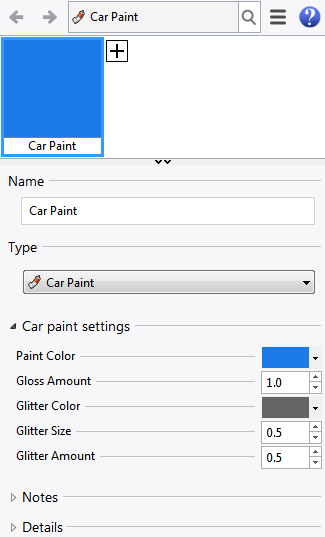
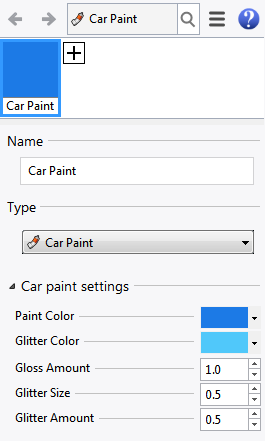
Added more automatic UI examples.

Changed region(s): [[0.0302, 0.4422, 0.9962, 1.0], [0.0, 0.0, 1.0, 0.4127], [0.7547, 0.619, 0.9962, 1.0]]

diff --git a/_guide_topics/cpp/rdk-render-content.md b/_guide_topics/cpp/rdk-render-content.md
@@ -128,7 +128,7 @@ protected:
 	virtual ON_wString TypeDescription(void) const override { return L"Demo car paint material"; }
 };
 ```
-Then override the `Bitflags()` method and switch on the fields option. This tells the RDK that the material uses fields and allows a lot of automation to take place by default. At the same time we remove the _Texture Summary_ option which would cause our UI to display a panel containing a texture list. Since this material has no child textures, this would not be useful here.
+Then override the `BitFlags()` method and switch on the fields option. This tells the RDK that the material uses fields and allows a lot of automation to take place by default. At the same time we remove the _Texture Summary_ option which would cause our UI to display a panel containing a texture list. Since this material has no child textures, this would not be useful here.
 ```cpp
 class CCarPaintMaterial : public CRhRdkMaterial
 {
@@ -138,8 +138,11 @@ class CCarPaintMaterial : public CRhRdkMaterial
 
 unsigned int CCarPaintMaterial::BitFlags(void) const
 {
-	// Add the fields option to the default options and remove the Texture Summary.
-	return (__super::BitFlags() & ~bfTextureSummary) | bfFields;
+	auto flags = __super::BitFlags(); // Get the default flags.
+ 	flags &= ~bfTextureSummary;       // Remove the Texture Summary option.
+	flags |=  bfFields;               // Add the fields option.
+
+	return flags;
 }
 ```
 Recall that `CRhRdkMaterial` is derived from `CRhRdkContent`. This base class contains a field collection which is accessible by calling the `Fields()` method to obtain a reference to the `CRhRdkContentFields` object containing the fields. Each field is implemented by `CRhRdkContentField` and they must be defined and initialized. They are best defined as members of the class and initialized in the constructor. Let's add the constructor and field members for the paint properties:
@@ -148,7 +151,6 @@ class CCarPaintMaterial : public CRhRdkMaterial
 {
 public:
 	CCarPaintMaterial();
-
 	...
 
 private:
@@ -169,17 +171,23 @@ CCarPaintMaterial::CCarPaintMaterial()
 	m_GlitterSize  (*this, L"glitter-size",   L"Glitter Size",   L"Glitter Size"),
 	m_GlitterAmount(*this, L"glitter-amount", L"Glitter Amount", L"Glitter Amount")
 {
-	m_PaintColor = CRhRdkColor(28, 122, 230);
-	m_GlossAmount  = 1.0;
+	m_PaintColor   = CRhRdkColor(28, 122, 230);
 	m_GlitterColor = CRhRdkColor(80, 200, 250);
-	m_GlitterSize  = 0.5;
+
+	m_GlossAmount = 1.0;
+	m_GlossAmount.SetLimits(0.0, 1.0);
+
+	m_GlitterSize = 0.5;
+	m_GlitterSize.SetLimits(0.0, 20.0);
+
 	m_GlitterAmount = 0.5;
+	m_GlitterAmount.SetLimits(0.0, 1.0);
 }
 ```
-In the example above, each field is first constructed and then initialized. The constructor of `CRhRdkContentField` is quite involved and has many parameters for expert users, but we just set the most important ones here. Every field must have, at the very least, a reference back to the content that owns it, an internal name, a localized name and an English name. If your plug-in does not support localization, you can just repeat the English name as shown above. After construction, the fields are initialized by assigning a value of the required type. This initializes the field to its type and default value. For example, setting the field to be a color is done by assigning a `CRhRdkColor` to it. Fields can have many types from simple POD types like `int` to more elaborate types such as `ON_Xform`. The default values will be changed when the user edits them, but they will be restored if `ResetParametersToDefaults()` is called. If the material is attached to a document, the fields' values will be stored in it, referenced by the internal name. For this reason, once a field's type and internal name have been set, they should never be changed. The English and localized names are free to change if so desired. The localized name will be displayed to the user if you choose to use the automatic UI system.
+In the example above, each field is first constructed and then initialized. The constructor of `CRhRdkContentField` is quite involved and has many parameters for expert users, but we just set the most important ones here. Every field must have, at the very least, a reference back to the content that owns it, an internal name, a localized name and an English name. If your plug-in does not support localization, you can just repeat the English name as shown above. After construction, the fields are initialized by assigning a value of the required type. This initializes the field to its type and default value. For example, setting the field to be a color is done by assigning a `CRhRdkColor` to it. Fields can have many types from simple POD types like `int` to more elaborate types such as `ON_Xform`. The default values will be changed when the user edits them, but they will be restored whenever `ResetParametersToDefaults()` is called. If the material is attached to a document, the fields' values will be stored when the document is saved, referenced by the internal name. For this reason, once a field's type and internal name have been set, they should never be changed. The English and localized names are free to change if so desired. The localized name will be displayed to the user if you choose to use the automatic UI system. The constructor above also sets some minimum and maximum limits on each field which prevents the user from setting them to nonsensical values.
 
 It is important to understand a few things about this method of using fields. First, the field objects are owned by your material because they are embedded in it. They are constructed and destructed at the same time as your material. These are known as _static fields_. There is another kind of field called a _dynamic field_, the use of which is an advanced topic which will be covered in a different article.
-<br><br>
+
 #### Fast material copying
 When a material is copied the default implementation of `MakeCopy()` has to assume that the properties are stored in some user-defined way, so it must convert the whole material to XML, copy the XML and convert it back to properties in the copy. This can be very slow. Because we are exclusively using fields to store our material's properties, we can take advantage of an optimization provided by the RDK. If you override `MakeCopy()` and have it call `FastMakeCopy()`, you can make the copying much faster. The default implementation of `FastMakeCopy()` does the bulk of the work by simply copying the fields.
 ```cpp
@@ -189,10 +197,9 @@ class CCarPaintMaterial : public CRhRdkMaterial
 	virtual CRhRdkContent* MakeCopy(CopyMethods m) const override { return FastMakeCopy(m); }
 };
 ```
-<br>
 #### Getting and setting material parameters
 The content user interface displays and allows editing of content parameters (i.e., properties). Although your material could provide methods for getting and setting each parameter, it is not necessary to do this. As long as the UI knows the internal names of the material's fields, it need call only two methods: `GetParameter()` and `SetParameter()`. These methods work with the `CRhRdkVariant` class to get or set parameters by name. When using the field system, this name _is_ the field's internal name. The default implementations of these methods usually do everything you need, but it is possible to override and specialize them if necessary.
-<br><br>
+
 #### The material simulation
 When the RDK displays a material in the Material Editor, it first shows a simple rendition of the material preview using OpenGL. After that it renders the material preview using the current render engine. The OpenGL rendition uses a _simulation_ of the material. This is essentially an `ON_Material` that has been set up to look as much like your material as possible. For complex materials, it can be difficult to produce a good simulation, but the most important properties to get right are the diffuse color and the glossiness. So we must implement an override of `CRhRdkMaterial::SimulateMaterial()` as follows:
 ```cpp
@@ -217,7 +224,7 @@ void CCarPaintMaterial::SimulateMaterial(ON_Material& matOut, CRhRdkTexture::Tex
 }
 ```
 In the above example, only the output material `matOut` is used. The other parameters are for more advanced use and will not be covered here.
-<br><br>
+
 #### The material shader
 In order for your render engine to render using your material, the material must provide a _shader_. Typically, when rendering an object, a render engine will get the material being used by the object and call `GetShader()` to get the material's shader object. It will then use the shader for rendering. The reason that the return value is a `void*` is because the RDK does not know anything about the shader; it's an internal render-engine object, but the material interface must have a method for getting it. The render engine will cast the returned pointer to the correct type before use.
 ```cpp
@@ -228,7 +235,6 @@ class CCarPaintMaterial : public CRhRdkMaterial
 	                       { return _the_shader_; }
 };
 ```
-<br>
 #### The material factory
 The RDK uses the factory pattern to allow render plug-ins to provide custom render content. This means that in order to have our new car paint material show up in the Material Editor's list of available materials, we must create a factory object that knows how to create an instance of the material. Because the factory produces materials, it must be derived from `CRhRdkMaterialFactory`. It must also implement the `NewMaterial()` method to create the material instance:
 ```cpp
@@ -247,12 +253,11 @@ void CCarDesignerPlugIn::RegisterExtensions(void) const
 	...
 }
 ```
-### Creating the user interface.
-
+### Creating the user interface
 ![CarPaint1]({{ site.baseurl }}/images/car-paint-example1.png){:style="float: right; margin-left: 12px;"}
 The above code is enough to get us a car paint material that the user can choose and create in the editor. But this is not very useful because we haven't provided a user interface, so the only things the user can edit are the material's name and notes. In order to edit the actual material properties, we need to supply a UI. This can be done (on Windows, at least) by creating an MFC dialog with an IDD and a resource in the usual way. This can be a lot of work. Sometimes it's enough to just be able to see and edit the parameters, for example when prototyping, and sometimes even for the final product. We will do this for our car paint material by using the RDK's Automatic UI system.
 
-In order to create a UI for your material, you must override `CRhRdkCoreContent::AddUISections()`. This is true in almost all cases, except when you want to create a completely customized user interface. To use the automatic UI, you must call `AddAutomaticUISection()` in your override. This will get you an automatic UI section (AKA roll-up) in the user interface, but it will be blank because it is necessary to tell the RDK which fields you want to display. The automatic UI uses an object called a _param block_ which is accessed through the `IRhRdkParamBlock` interface. This param block contains the information about what parameters to display in the user interface and it accepts the changes made by the user. It can be thought of as a conduit that enables the transfer of the parameters between the render content and the user interface. When using fields, it's easy to get all of this functionality. You just have to override `AddAutoParameters()` and have the fields add themselves to the param block. When the user changes a value in the UI, it is necessary for your material to accept to change and modify the relevent field. All you need do is override `GetAutoParameters()` and have the fields load themselves from the param block.
+In order to create a UI for your material, you must override `CRhRdkCoreContent::AddUISections()`. This is true in almost all cases, except when you want to create a completely customized user interface. To use the automatic UI, you must call `AddAutomaticUISection()` in your override. This will get you an automatic UI section (AKA roll-up) in the user interface, but it will be blank because it is necessary to tell the RDK which fields you want to display. The automatic UI uses an object called a _param block_ which is accessed through the `IRhRdkParamBlock` interface. This param block contains the information about what parameters to display in the user interface and it accepts the changes made by the user. It can be thought of as a conduit that enables the transfer of the parameters between the render content and the user interface. When using fields, it's easy to get all of this functionality. You just have to override `AddAutoParameters()` and have the fields add themselves to the param block. When the user changes a value in the UI, it is necessary for your material to accept to change and modify the relevent field. All you need do is override `GetAutoParameters()` and have the fields load themselves from the param block. You can also sort the parameters according to either their internal (field) name or their display name. This is commonly done in `AddAutoParameters()` just after adding them.
 
 {:style="clear:both;"}
 
@@ -277,6 +282,8 @@ void CCarPaintMaterial::AddUISections(IRhRdkExpandableContentUI& ui)
 void CCarPaintMaterial::AddAutoParameters(IRhRdkParamBlock& paramBlock, int id) const
 {
 	Fields().AddValuesToParamBlock(paramBlock, id);
+
+	paramBlock.Sort(IRhRdkParamBlock::SortBy::DisplayName);
 }
 
 void CCarPaintMaterial::GetAutoParameters(const IRhRdkParamBlock& paramBlock, int id)
@@ -284,3 +291,76 @@ void CCarPaintMaterial::GetAutoParameters(const IRhRdkParamBlock& paramBlock, in
 	Fields().GetValuesFromParamBlock(paramBlock, id);
 }
 ```
+#### Using multiple automatic sections
+Our car paint material only has a few fields, but some customized materials will have many more. If you don't want all the fields to appear in the same UI section, you can have the automatic UI distribute the fields between multiple sections. To do this, you first decide which fields should appear together and give them the same identifier. This is one of the constructor parameters, `sectionId` which defaults to zero. In this example we will put the color fields on one section and the other fields on a different section. The color fields are given the id _1_ and the others _2_. The `sectionId` parameter appears after two other 'filter' parameters that are not relevant to this example, so we will fill them in as the default value, `CRhRdkContentField::Filter::All`:
+```cpp
+static const int idColor = 1;
+static const int idOther = 2;
+static const auto f = CRhRdkContentField::Filter::All;
+
+CCarPaintMaterial::CCarPaintMaterial()
+	:
+	m_PaintColor   (*this, L"paint-color",    L"Paint Color",    L"Paint Color"    , f, f, idColor),
+	m_GlossAmount  (*this, L"gloss-amount",   L"Gloss Amount",   L"Gloss Amount"   , f, f, idOther),
+	m_GlitterColor (*this, L"glitter-color",  L"Glitter Color",  L"Glitter Color"  , f, f, idColor),
+	m_GlitterSize  (*this, L"glitter-size",   L"Glitter Size",   L"Glitter Size"   , f, f, idOther),
+	m_GlitterAmount(*this, L"glitter-amount", L"Glitter Amount", L"Glitter Amount" , f, f, idOther)
+	...
+```
+Now that the fields have been separated by this id, we just have to add a second section to the UI and specify which id appears on which section:
+```cpp
+void CCarPaintMaterial::AddUISections(IRhRdkExpandableContentUI& ui)
+{
+	const wchar_t* wsz1 = L"Car paint color settings";
+	AddAutomaticUISection(ui, wsz1, wsz1, idColor);
+
+	const wchar_t* wsz2 = L"Car paint other settings";
+	AddAutomaticUISection(ui, wsz2, wsz2, idOther);
+
+	__super::AddUISections(ui);
+}
+```
+#### Extra requirements
+It is possible to enhance the automatic UI a little more by making use of _extra requirements_. These are essentially a set of special options that can applied to the parameters so their display can be tweaked. Let's demonstrate this by changing one of the parameters, _Glitter Amount_ to show its value as a percentage. Any float or double value that has a nominal range of 0 to 1 can be displayed as 0% to 100% by adding the `RDK_NUMBER_EDIT_TWEAKS` extra requirement and then specifying its `RDK_PERCENTILE` option. The requirement is specified when parameters are added to the param block.
+```cpp
+void CCarPaintMaterial::AddAutoParameters(IRhRdkParamBlock& paramBlock, int id) const
+{
+	Fields().AddValuesToParamBlock(paramBlock, id, RDK_NUMBER_EDIT_TWEAKS);
+	...
+}
+```
+After this is done, all the parameters will support this extra requirement, but it won't have any effect until you specify an option within the scope of that requirement. In this case, the `RDK_PERCENTILE` option must be specified. To do this, your material needs to override `GetExtraRequirementParameter()` as follows:
+```cpp
+class CCarPaintMaterial : public CRhRdkMaterial
+{
+	...
+	virtual bool GetExtraRequirementParameter(const wchar_t* wszParamName,
+	                                          const wchar_t* wszExtraReqName,
+	                                          CRhRdkVariant& vValueOut) const override;
+};
+
+bool CCarPaintMaterial::GetExtraRequirementParameter(
+                                const wchar_t* wszParamName,
+                                const wchar_t* wszExtraReqName, CRhRdkVariant& vValueOut) const
+{
+	if (__super::GetExtraRequirementParameter(wszParamName, wszExtraReqName, vValueOut))
+		return true;
+
+	if (0 == _wcsicmp(L"glitter-amount", wszParamName))
+	{
+		if (0 == _wcsicmp(RDK_PERCENTILE, wszExtraReqName))
+		{
+			vValueOut = true;
+			return true;
+		}
+	}
+
+	return false;
+}
+```
+This is how the user interface appears after the above changes have been made. It is possible to have as many fields as you need split among as many sections as you need, limited only by available computer resources.
+<br><br>
+![CarPaint2]({{ site.baseurl }}/images/car-paint-example2.png)
+
+### Summary
+This article introduced render contents and covered the most important aspects of using them in your render plug-in. It explained ownership, modification, copying, and showed how to create a customized material and a simple user interface for it.

diff --git a/_guide_topics/cpp/rdk-sun-classes.md b/_guide_topics/cpp/rdk-sun-classes.md
@@ -19,7 +19,6 @@ _IRhRdkSun_ is an abstract sun interface. It provides access to all the properti
 ## CRhRdkSun
 <a name="CRhRdkSun"></a>
 _CRhRdkSun_ is a simple sun object that can be placed on the stack or used as a class member. It can be used as a temporary 'working' sun and it provides access to an underlying implementation of IRhRdkSun. You can use this to do sun angle calculations without affecting the document sun. This might be useful, for example, to create an ephemeris or some other table of sun information.
-
 ```cpp
   // Make a temporary sun and set some properties.
   CRhRdkSun s;
@@ -36,7 +35,6 @@ _CRhRdkSun_ is a simple sun object that can be placed on the stack or used as a 
   auto light = sun.Light();
   ...
 ```
-
 ## CRhRdkSunDialog
 <a name="CRhRdkSunDialog"></a>
 _CRhRdkSunDialog_ is a wrapper around a sun UI. TODO: data source.
@@ -44,7 +42,6 @@ _CRhRdkSunDialog_ is a wrapper around a sun UI. TODO: data source.
 <a name="DocumentSun"></a>
 ## The RDK Document Sun
 The _RDK Document Sun_ is a document-resident sun which affects viewports and renderings. If you have a Rhino document, you can read and write that document's sun through the document's IRhRdkSun interface. Any changes you make will appear in the main sun UI and will also be stored in the 3dm file. Getting the sun from a document always returns a const reference. To write to the sun, you must begin a batch of write operations and afterwards end the batch. This is done using the RDK's standard BeginChange / EndChange system.
-
 ```cpp
   // Read some information from the document sun.
   const auto& sun = pDoc->Sun();
